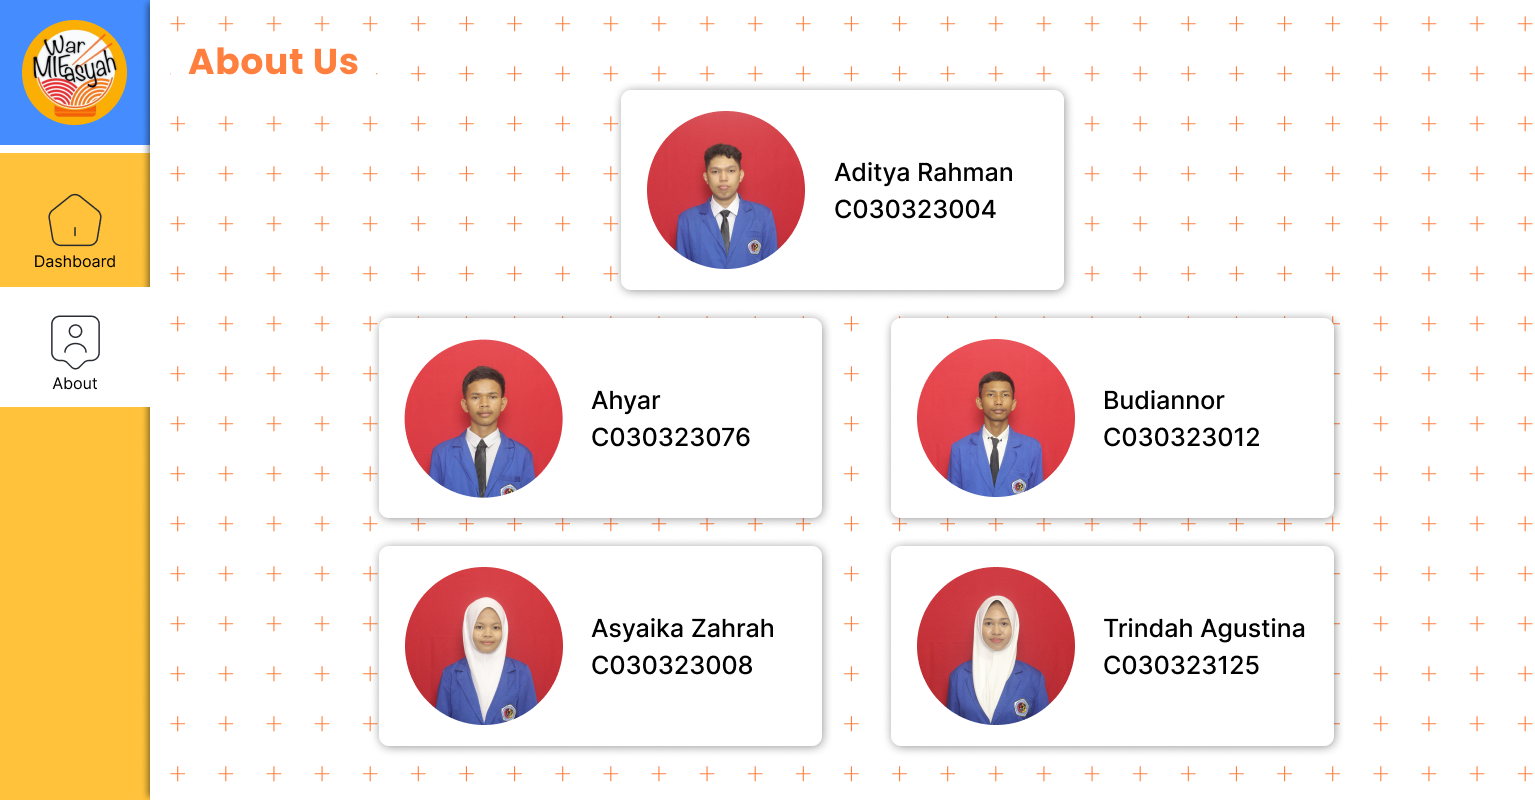
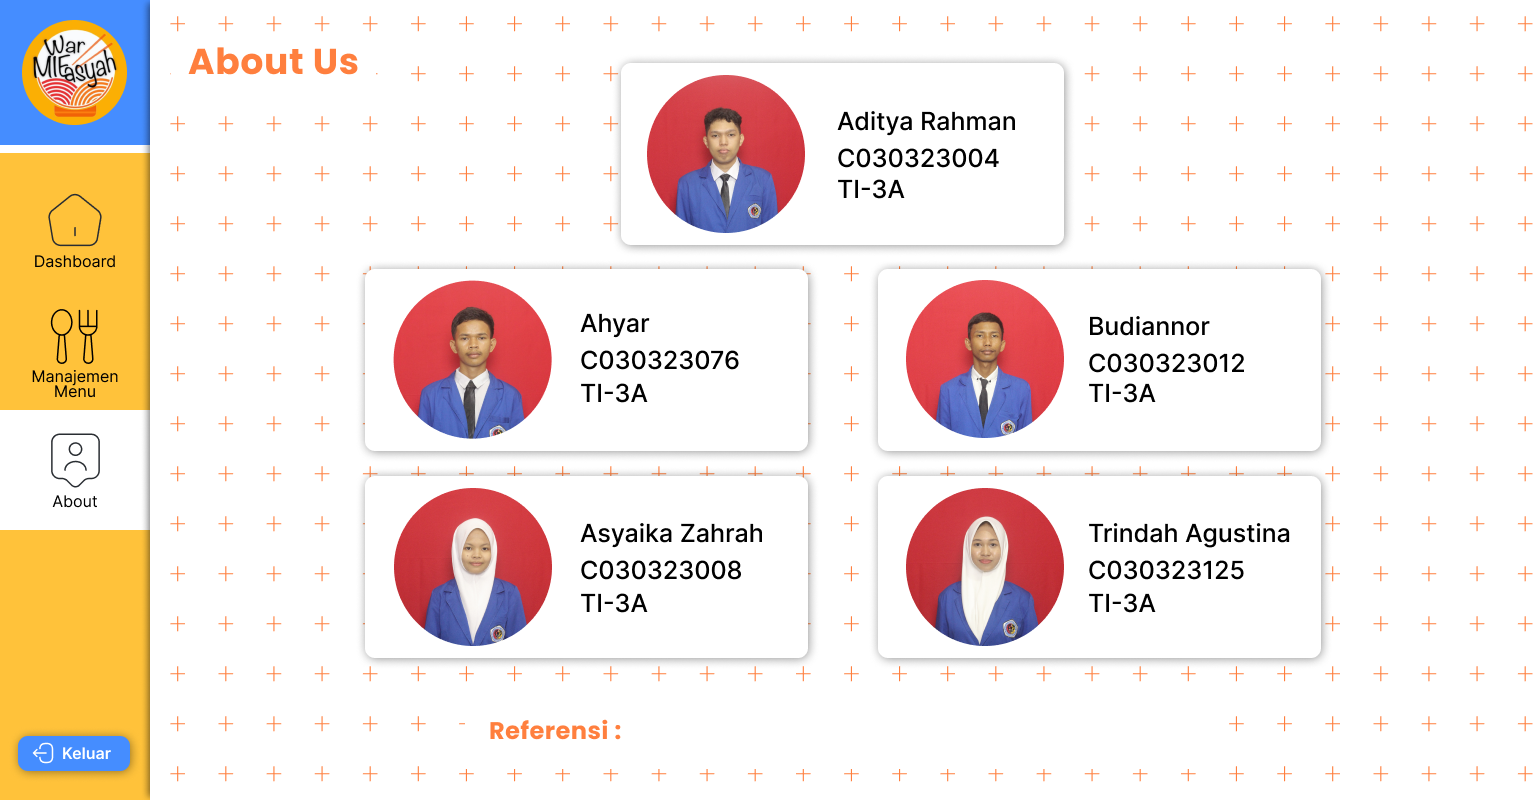
Tambahan img

Changed region(s): [[0.245, 0.0625, 0.8879, 0.9375], [0.0, 0.3438, 0.1225, 0.6875], [0.0, 0.9062, 0.0919, 0.9688]]

diff --git a/src/myapp/FAbout.java b/src/myapp/FAbout.java
@@ -1,0 +1,63 @@
+package myapp;
+import javafx.application.Application;
+import javafx.fxml.FXML;
+import javafx.fxml.FXMLLoader;
+import javafx.scene.Parent;
+import javafx.scene.Scene;
+import javafx.scene.control.*;
+import javafx.stage.Stage;
+
+
+public class FAbout extends Application {
+
+    @FXML
+    private Button BtDashboard;
+
+    @FXML
+    private Button btAbout;
+
+    @FXML
+    private Button btKeluar;
+
+    public static void main(String[] args) {
+        launch(args);
+
+    }
+    @Override
+    public void start(Stage primaryStage) {
+        try {
+            Parent root = FXMLLoader.load(getClass().getResource("FAbout.fxml"));
+            primaryStage.setScene(new Scene(root));
+            primaryStage.setTitle("About");
+            primaryStage.show();
+        } catch (Exception e) {
+            e.printStackTrace();
+        }
+    }
+
+
+
+@FXML
+private void handleDashboardButtonAction() {
+    try {
+        Parent root = FXMLLoader.load(getClass().getResource("FAdmin.fxml"));
+        Stage stage = (Stage) BtDashboard.getScene().getWindow();
+        stage.setScene(new Scene(root));
+        stage.setTitle("Admin Dashboard");
+    } catch (Exception e) {
+        e.printStackTrace();
+    }
+}
+
+@FXML
+private void handleKeluarButtonAction() {
+    try {
+        Parent root = FXMLLoader.load(getClass().getResource("FLogin.fxml"));
+        Stage stage = (Stage) btKeluar.getScene().getWindow();
+        stage.setScene(new Scene(root));
+        stage.setTitle("Login");
+    } catch (Exception e) {
+        e.printStackTrace();
+    }
+}
+}
